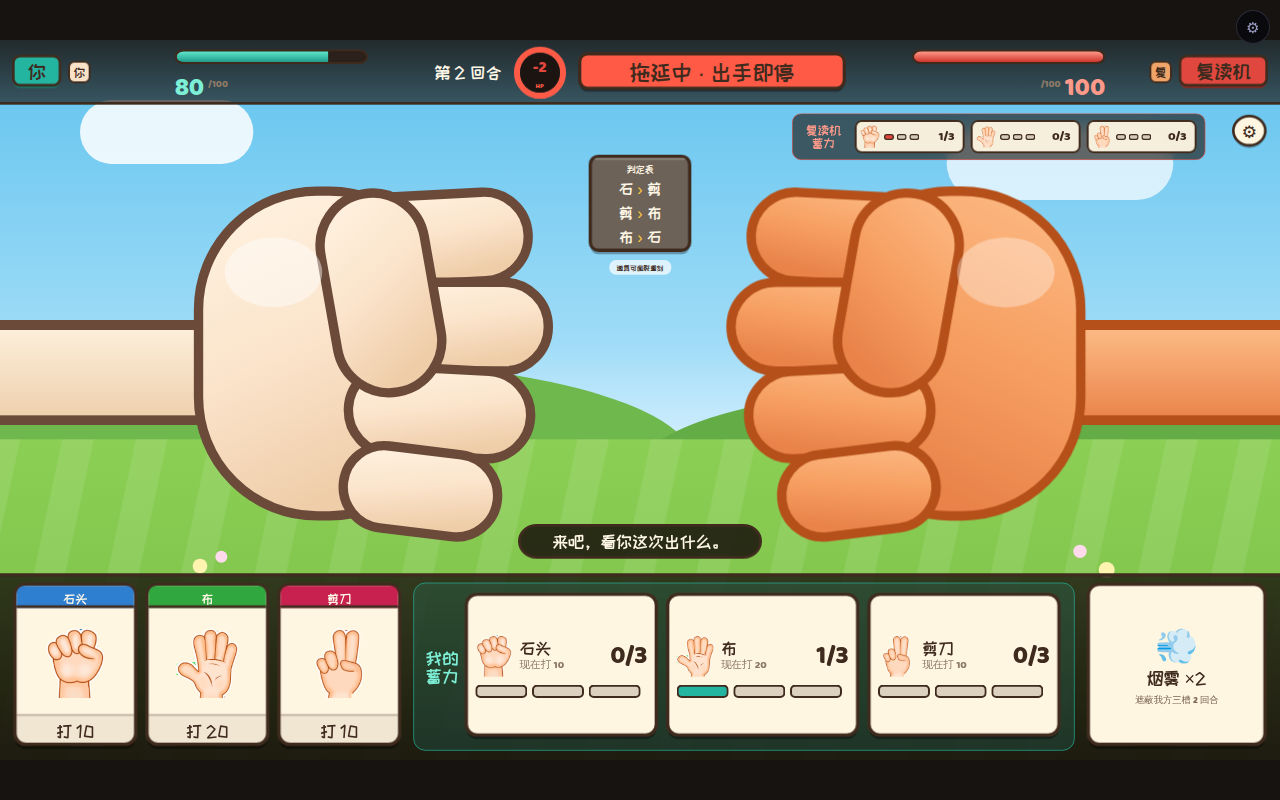
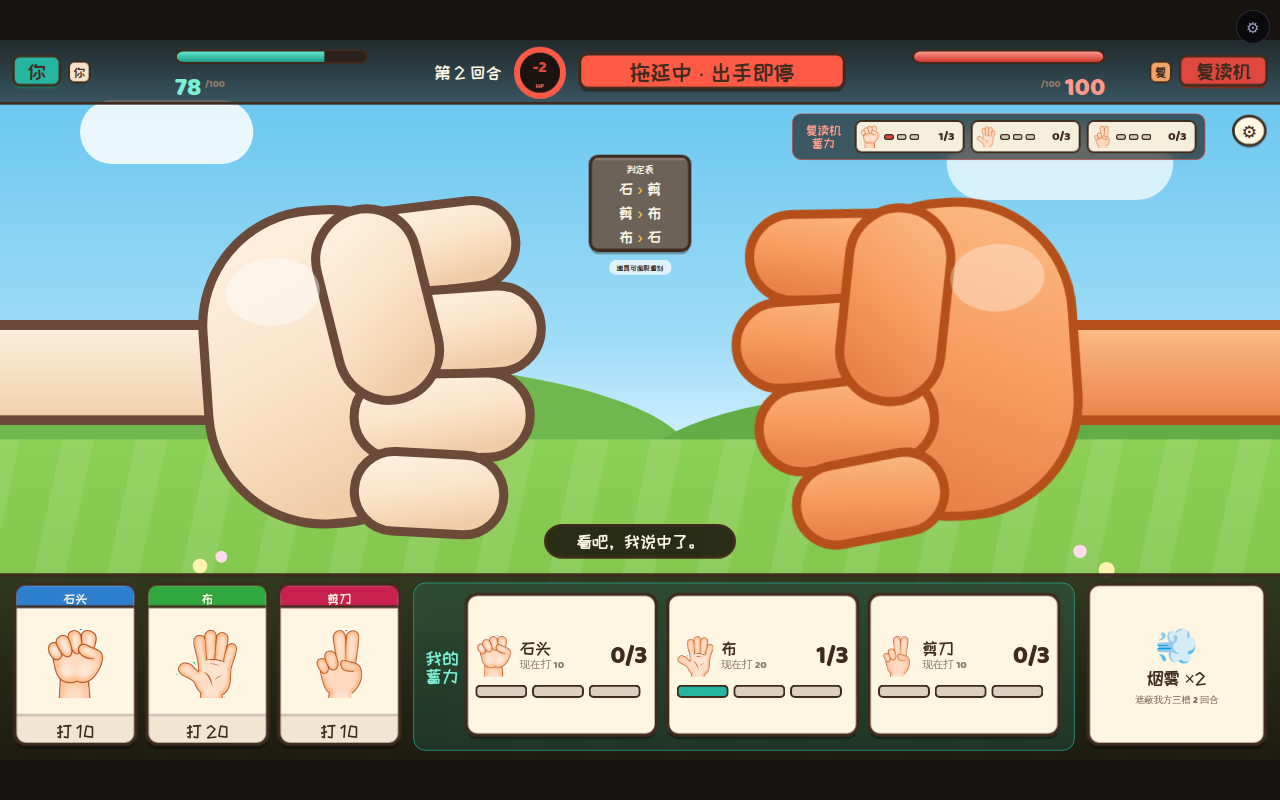
feat(game108): 罚血「欠债 → 真扣血」接线完成——按主程回驳单的 SelfRule+whenGlobal 写法
我 2026-08-08 开的 REQ-108-ENG-07 被主程回驳 wontfix（举证经实查证伪：`t2-self-rule` 的
`whenGlobal` 按全局 id 求值、`do` 施于自身，两头都有）。回驳成立，按等价写法接上，并撤销该单。

落地时撞出两条回驳单没遇到的，都写进注释与 GDD 免得再踩：

① **p1 那格 `SelfRule` 原本被【R-108-15】死亡判定占着**——证明测试用的是空实体，而 game108 的
   p1 已有 `Flag{p1.dead}` + `SelfRule{死亡判定}`；实测确认一实体一组件是**覆盖不是并存**。
   那一格给罚血（扣血只有自治规则做得到，全局路由分不清哪一侧），死亡判定挪到 `watch:p1`：
   `whenGlobal` 读全局 hp（装配序保证读到 p1）→ 置自身那面 `p1.dead`。
   p2 不需要罚血，照旧读自身 hp，无歧义。
   全局路由那条隐含依赖**有点名测试钉着**（「watch:p1 只盯 p1」：打死 p2 断言玩家不被判死）
   ——SIDES 倒序或插进第三个 hp 持有者时当场红，不然表现是「打死对手的同时自己也判负」且不报错。

② **flow 的 `set-flag` 是「找到已有 Flag 再改」**，没建 `flag:penaltyTick:p1` 实体时旗永不亮，
   表现是欠债一路涨、血条纹丝不动、零报错。被验收剧本新加的 `p1.hp` 断言当场逮住
   ——这也正是「台账与血量必须同时断言」的理由，写进了 acceptance/README。

节拍**不用 `once`**：once 的 armed 复位只看 `when` 不看 `whenGlobal`（回驳单已警告）。
改用 level 模式 + 节拍旗只亮一拍（`throwPenaltyHit` 进态点亮 → 下一拍 `throwPenalty` 熄灭），
「一秒一点」由 flow 的两态互跳保证，不依赖 armed 语义。
另加「血归零即收局」转移：不加的话血 clamp 在 0、玩家又没出手 ⇒ 永远出不去读秒态 = 死局。

验证（全部实跑）
- 单测 39 → 41 绿，新增「罚血真扣血」「一直不出手会被罚死」两条；
  **撤修验红**：撤掉节拍旗实体（带锚点断言确认真改到文件）→ 这两条当场转红，复原后 41 绿。
- 验收剧本 12/12 绿：⑧ 现在同断台账与血量（欠 4 点 → p1 96、p2 一点不掉）
- 真浏览器试玩 29/29 绿，罚血前 80 → 这一回合打完 78（肉眼可见掉了 2 点）
- 流程板 S3/S4/S5 机器门同时绿；scoped-gate 退出码 0

https://claude.ai/code/session_01CxgHiwPr3Q9y3548zpXfcV

diff --git a/games/game108/blueprint.ts b/games/game108/blueprint.ts
@@ -15,7 +15,7 @@ import { flowCapability } from '@zerocraft/engine/skills/tier3/index.js';
 import {
   HANDS, SIDES, HP_MAX, CHARGE_CAP, DMG_BASE, DMG_STEP, TIE_SELF_DAMAGE,
   PHASE_TICKS, PENALTY_PERIOD, PENALTY_HP, CHARGE_PER_ROUND,
-  ACT, HP_RES, chargeRes, chargeRelName, chargeEntity, chargeBudgetRes, penaltyDebtRes, lastThrowVar,
+  ACT, HP_RES, chargeRes, chargeRelName, chargeEntity, chargeBudgetRes, penaltyDebtRes, penaltyTickFlag, lastThrowVar,
   SMOKE_RES, SMOKE_TURNS, SMOKE_FLAG, SMOKE_USES, SMOKE_DURATION,
   type Hand, type Side, type OpponentId,
 } from './theme.js';
@@ -120,6 +120,7 @@ function duelFlow(): Record<string, unknown> {
     { kind: 'set-flag', targetId: PENALTY_GATE, value: false },
     { kind: 'set-flag', targetId: NEXT_GATE, value: false },
     { kind: 'set-flag', targetId: threwFlag('p1'), value: false },
+    { kind: 'set-flag', targetId: penaltyTickFlag('p1'), value: false },
     // 【R-108-10】v3：每回合发一份蓄力额度（双方同规则——AI 也只加一层）。
     ...SIDES.map((s) => ({ kind: 'modify-resource', targetId: chargeBudgetRes(s), op: 'set', value: CHARGE_PER_ROUND })),
     { kind: 'modify-resource', targetId: penaltyDebtRes('p1'), op: 'set', value: 0 },
@@ -149,18 +150,26 @@ function duelFlow(): Record<string, unknown> {
       // ── T2 尾巴：罚血读秒（屏上仍是「出招」这一拍）────────────────────────
       {
         id: 'throwPenalty',
-        onEnter: [{ kind: 'set-flag', targetId: PENALTY_GATE, value: true }],
+        onEnter: [
+          { kind: 'set-flag', targetId: PENALTY_GATE, value: true },
+          { kind: 'set-flag', targetId: penaltyTickFlag('p1'), value: false },   // 节拍旗只亮一拍
+        ],
         transitions: [
+          // 罚死了也要收局：不加这条，玩家血罚到 0 却还卡在读秒里等他出手（clamp 在 0，永远出不去）。
+          { when: hpDown('p1'), to: 'p2win' },
           { when: playerThrew, to: 'clash' },
           { after: PENALTY_WAIT, to: 'throwPenaltyHit' },
         ],
       },
       {
         id: 'throwPenaltyHit',
-        // 记一笔欠债（**全局唯一 id**，故 flow 的 modify-resource 打得中）。
-        // 欠债 → 真掉血这一步**尚缺引擎通路**（见 requests.md REQ-108-ENG-07 的 A/B）：
-        // 全局 Effect 写不到"指定一侧"的 hp（两侧同 id），故本轮先把账记准、演出照做。
-        onEnter: [{ kind: 'modify-resource', targetId: penaltyDebtRes('p1'), op: 'add', value: PENALTY_HP }],
+        onEnter: [
+          // 记一笔欠债（**全局唯一 id**，故 flow 的 modify-resource 打得中）——屏上「已欠 -N」读它。
+          { kind: 'modify-resource', targetId: penaltyDebtRes('p1'), op: 'add', value: PENALTY_HP },
+          // **真扣血的节拍**：点亮全局节拍旗，p1 自己那条 SelfRule 用 whenGlobal 读它、扣自身 hp。
+          // 旗只亮这一拍（下一拍回 throwPenalty 就熄），故 level 模式也恰好一秒一点。
+          { kind: 'set-flag', targetId: penaltyTickFlag('p1'), value: true },
+        ],
         transitions: [
           { when: playerThrew, to: 'clash' },
           { when: { kind: 'always' }, to: 'throwPenalty' },
@@ -401,6 +410,10 @@ export function buildBlueprint(opponent: OpponentId = 'parrot'): WorldBlueprint 
     'fx:threw:p1': { Effect: { onSignal: PLAYER_THREW, kind: 'set-flag', targetId: threwFlag('p1'), value: true } } as EntityBlueprint,
     'fx:next': { Effect: { onSignal: ACT.next, kind: 'set-flag', targetId: NEXT_GATE, value: true } } as EntityBlueprint,
     'debt:p1': { Resource: { id: penaltyDebtRes('p1'), current: 0, min: 0, max: 999 } } as EntityBlueprint,
+    // 【R-108-04】罚血节拍旗（**必须真有这个实体**）：flow 的 `set-flag` 是「按 id 找到已有的 Flag 再改」，
+    // 世界里没有同 id 的 Flag 就**静默什么都不做**——旗永不亮 ⇒ 屏上欠债一路涨、血条纹丝不动。
+    // 接线第一版正是漏了它，验收剧本的 `p1.hp eq 96` 当场逮住（这就是那条断言存在的理由）。
+    'flag:penaltyTick:p1': { Flag: { id: penaltyTickFlag('p1'), active: false } } as EntityBlueprint,
     ...opponentRules(opponent),
     ...smokeWiring(),
     ...chargeEffects(),
@@ -408,17 +421,63 @@ export function buildBlueprint(opponent: OpponentId = 'parrot'): WorldBlueprint 
   };
 
   // 双方：血量各挂一份**同 id**（matrix-duel 的 hpResource 按侧 local 寻址）【R-108-15】。
+  //
+  // ⚠ **一实体一组件，`SelfRule` 只有一格**（实测：同 type 二次 addComponent 是覆盖不是并存）。
+  // v3 要在**同一个 p1 身上**做两件都得碰自身的事：
+  //   ① 【R-108-15】血归零 → 置本侧 dead 旗（**只读判断** + 写自身 Flag）
+  //   ② 【R-108-04】罚血节拍 → 扣本侧 hp（**写自身 Resource**）
+  // 那一格给 ②：**扣血只有自治规则做得到**——全局 Effect / CraftRecipe / flow 的 modify-resource
+  // 一律是全局 id 路由，两侧同 id 分不清哪一侧（主程 2026-08-07 回驳单的等价写法即此）。
+  // ① 则挪到 `watch:p1`，靠 `whenGlobal` 读全局条件（见该实体注释）。
+  // p2 不需要罚血（AI 从不犹豫），它那一格照旧留给死亡判定，读的是**自身** hp，无歧义。
   for (const side of SIDES) {
+    const isPlayer = side === 'p1';
     entities[side] = {
       Resource: { id: HP_RES, current: HP_MAX, min: 0, max: HP_MAX },
-      Flag: { id: deadFlag(side), active: false },
-      // 读自身 hp（不是全局 id）→ 置自身那面唯一 flag：这是「按侧判定」在现有能力里的正解。
-      SelfRule: {
-        when: { kind: 'resource', id: HP_RES, cmp: 'lte', value: 0 },
-        do: [{ kind: 'set-flag', targetId: deadFlag(side), value: true }],
-        once: true,
-      },
+      ...(isPlayer
+        ? {
+          // 【R-108-04】罚血落到实处：`whenGlobal` 读**全局**节拍旗 → `do` 施于**自身** = 本侧那份 hp。
+          // `when` 读自身 hp「还活着才罚」——血归零后不再往下扣（钳位之外的第二道）。
+          // **不带 `once`**：once 的 armed 复位只看 `when` 不看 `whenGlobal`（后者为假是整条 continue，
+          // armed 不动），节拍放 whenGlobal 会「罚第一次就再也不复位」——主程实测撞过，写进了回驳单。
+          // 改用 level 模式 + 节拍旗只亮一拍，「一秒一点」由 flow 的两态互跳保证。
+          SelfRule: {
+            whenGlobal: { kind: 'flag', id: penaltyTickFlag(side) },
+            when: { kind: 'resource', id: HP_RES, cmp: 'gt', value: 0 },
+            do: [{ kind: 'modify-resource', value: -PENALTY_HP }],
+          },
+        }
+        : {
+          Flag: { id: deadFlag(side), active: false },
+          // 读自身 hp（不是全局 id）→ 置自身那面唯一 flag：按侧判定在现有能力里的正解。
+          SelfRule: {
+            when: { kind: 'resource', id: HP_RES, cmp: 'lte', value: 0 },
+            do: [{ kind: 'set-flag', targetId: deadFlag(side), value: true }],
+            once: true,
+          },
+        }),
     } as EntityBlueprint;
+  }
+  /**
+   * 【R-108-15】玩家侧的死亡看守（**另居一实体**·因为 p1 那格 SelfRule 让给了罚血）。
+   *
+   * `whenGlobal` 走**全局 id 路由**——两侧 hp 同 id，取的是「世界里第一个 id='hp' 的 Resource」。
+   * 装配序 `SIDES = ['p1','p2']` ⇒ 那一个恒是 **p1**，正好是本看守要盯的那侧。
+   * **这条依赖是显式的、且有点名测试钉着**（`game108.test.ts`「看守只盯 p1」：把 p2 打到 0
+   * 断言 `p1.dead` 不动、把 p1 打到 0 断言它置位）——不是「碰巧能跑」的静默依赖。
+   * 同样的写法对 p2 **不成立**（它也只会读到 p1），所以 p2 走自身那条路，见上。
+   */
+  entities['watch:p1'] = {
+    Flag: { id: deadFlag('p1'), active: false },
+    SelfRule: {
+      whenGlobal: { kind: 'resource', id: HP_RES, cmp: 'lte', value: 0 },
+      when: { kind: 'always' },
+      do: [{ kind: 'set-flag', targetId: deadFlag('p1'), value: true }],
+      once: true,
+    },
+  } as EntityBlueprint;
+
+  for (const side of SIDES) {
     entities[`var:${side}`] = { StringVar: { id: lastThrowVar(side), value: '' } } as EntityBlueprint;
     // 【R-108-10】v3 蓄力额度：起手就发一份，**不等 T1 的 onEnter**——
     // flow 首帧才跑 `charge` 的 onEnter，起手值留 0 会让第一回合的第一次点击加 0（首局哑一拍）。

diff --git a/games/game108/theme.ts b/games/game108/theme.ts
@@ -105,6 +105,18 @@ export const chargeBudgetRes = (side: Side): string => `${side}.budget`;
 /** 【R-108-04】本回合已欠的罚血点数（**per-round**·T1 开场清零）。屏上「你已经欠了多少」读它。 */
 export const penaltyDebtRes = (side: Side): string => `${side}.debt`;
 
+/**
+ * 【R-108-04】罚血的**节拍旗**（全局 id·flow 每秒点亮一拍）。
+ * 该侧的 `SelfRule` 用 `whenGlobal` 读它 → `do.modify-resource` 扣**自身**那份 hp，
+ * 这是「全局条件 → 按侧扣血」在现有能力里的正解（主程 2026-08-07 回驳单的等价写法）。
+ *
+ * ⚠ **不带 `once`**：`once` 的 armed 复位只看 `when`（自身）不看 `whenGlobal`
+ * （`whenGlobal` 为假是 continue 整条跳过·armed 不动），节拍放 `whenGlobal` 里会「罚第一次就再也不复位」。
+ * 改用 level 模式 + **旗只亮一拍**（`throwPenaltyHit` 进态点亮 → 下一拍 `throwPenalty` 熄灭），
+ * 于是「一秒一点」由 flow 的两态互跳保证，不依赖 armed 语义。
+ */
+export const penaltyTickFlag = (side: Side): string => `${side}.penaltyTick`;
+
 // ── UI ────────────────────────────────────────────────────────────────
 /**
  * 对局屏主题 —— **按设计定稿的令牌表改配**（`design-tokens.ts` 是逐字抄稿的那份）。

diff --git a/docs/workflow/requests.md b/docs/workflow/requests.md
@@ -76,47 +76,12 @@
 - **边界**（复查门核对用）：`scripts/click-probe.mjs`（新）+ `scripts/game-pipeline.mjs` 的 S3 门读码一处
   + 其单测。**不碰**别的阶段门、不碰渲染探针、不改任何游戏。
 
-### REQ-108-ENG-07 · 全局条件成立时**扣指定一侧**的血——现有能力表达不了 · [2026-08-08] · game108 v3【R-108-04】带出 · status: **open · 等 owner 判 A/B** · 优先级: P1（卡 game108 S4 收口） · 类型: 引擎缺口
-
-**要表达的一句话**：「T2 免费段走完还没出手 → **每 1 秒扣 p1 一点血**，直到他出手」（gdd【R-108-04】·owner 2026-08-07 定值）。
-形状 = **全局条件（相位门 + 已出手旗 + 周期钟）→ 按侧局部写（p1 自己那份 `hp`）**。
-
-#### ① 先查（实查·留原文·不凭印象）
-
-| 查了什么 | 结论 | 出处 |
-|---|---|---|
-| `Effect{kind:'modify-resource'}` | 目标是 `lookup.resource(targetId)` = **全局 id 首个**；`targetEntity` **只被** set-sensor / set-visible / destroy / reset-timer 四个 kind 消费 | `effect-apply.ts:153-197`，`targetsOf` 调用点 207/219/245/287 |
-| `buildConditionLookup` | 「同 id 多份时**取第一份**（假定全局唯一）」 | `condition.ts:22` |
-| `CraftRecipe` 的 costs/gains | 同样是 `lookup.resource` 全局路由 | `craft-recipe.ts:85/95/102` |
-| `flow` 的 `onEnter/do` 动作 | `applyAction` 也是 `lookup.resource` | `tier3/flow.ts:37-45` |
-| `SelfRule` | **能**写自身 Resource，且 `whenGlobal` 正好是「全局阶段门 + 自治写」（REQ-F-035）——**形状完全对**；但 game108 的 `p1` 实体那一格 `SelfRule` 已被【R-108-15】的死亡判定占死（读自身 hp → 置自身 `p1.dead`），引擎**一实体一组件**，装不下第二条 | `logic.ts:229-239`、`blueprint.ts` 侧实体那段 |
-| 死亡判定能不能挪走腾出槽 | **不能**：它同样要「读 p1 自己的 hp」，而 hp 只有 self-local 一条路能认侧 | 同上 |
-| `OverTime`/`TimedEffect` | **周期改自身资源**正是要的，但 `TimedEffect` **没有任何门控字段**，且数据侧无法在运行期挂载/摘除（`addTimedEffect` 是代码 API，由 hitbox 调） | `combat.ts:65-73`、`over-time.ts` |
-| `Mortal` | 到阈值**销毁自身**——销毁 p1 会连带打掉血条/重开，不可用 | `combat.ts:169-174` |
-| 能不能靠「p1 恰好是第一个 Resource」 | 能跑，但**是个静默地雷**：`SIDES` 一换序就罚错人、零报错。本能力自己在三处禁止这种写法 | `matrix-duel.ts:60/86/228-231/322-325`（落盘门**直接拒收** effects/scaleByResource 碰 hpResource，判词原文「两侧同 id 无法全局寻址」） |
-
-**重组不成立的原因一句话**：能读全局的写不到指定侧（effect/craft/flow 全是 id 路由），能写指定侧的读不到全局（self-rule 的槽被占死）。两半都在，接不上。
-
-#### ② 两条路（Lead 给推荐·**不下裁决**）
-
-**A · 补引擎缺口**：把**已有字段** `Effect.targetEntity` 补齐到 `modify-resource`——在场时写该实体自己那份 `Resource`（id 仍须匹配 `targetId`），缺省保持现在的全局路由。
-- 代价：动 `effect-apply`（Commit 相位·跨游戏共享面 ⇒ 🔴 主程域），约 3 行 + 契约注释 + 点名测试。**纯增量、向后兼容**（不填 `targetEntity` 的旧数据一字不变）。
-- 影响面：全库。**通用性高**——凡「多实体各挂同 id 资源」（双方 hp / 多席位分数 / 多队血条）都吃这个亏，`matrix-duel` 已经为它打了三处补丁（用落盘门**禁止**作者去碰，而不是让作者能碰）。
-- 选错要付什么：给 Effect 开了一条"按实体写资源"的路，将来有人拿它绕开 self-rule 的自治语义。可用「id 必须匹配」这条约束压住（不是任意实体任意资源）。
-- 不碰定序/相位/hash 口径：只改**寻址**，写入点、时机、钳位一字不动。
-
-**B · 游戏独有逻辑**：game108 自写一个 system 每 tick 判「相位 + 已出手 + 计时」→ 扣 p1 的 hp。
-- 代价：违反数据驱动宣言（游戏层不许写 system）；且这条逻辑（相位门 + 按侧扣血）明显是通用形状，写在游戏层等于把缺口埋起来，下一个游戏再挖一遍。
-- 好处：不动引擎，零全库风险。
-
-**Lead 推荐 A。** 理由：这不是 game108 一家的需求，是引擎「实体寻址轴」上缺的一格——`SelfRule.whenGlobal` 已经把「全局门 + 自治写」补齐了，A 补的是它的镜像「全局规则 + 指定实体写」。
-
-#### ③ 本轮的落地状态（**等判决期间没有停工**）
-
-罚血的**账已经记准、演出已经做全**：`throwPenalty ↔ throwPenaltyHit` 两态互跳当周期钟（每 1 秒一记），
-写进全局唯一 id 的 `p1.debt`；屏上倒计时环翻成「已欠 -N」、相位牌换「拖延中」、每秒闪一次红纱。
-**唯一没接的是最后一步「`p1.debt` → 真扣 hp」**——判 A 就是加一条 `Effect{targetEntity:'p1'}`；
-判 B 则改成游戏层 system。两条路都不需要改已经落地的这些。
+<!-- REQ-108-ENG-07（我 2026-08-08 开的「全局条件→扣指定一侧血」引擎缺口单）**已撤销·不占槽**：
+     ① 编号撞车——该号早被「结算门下的 intent 生命周期」占用（我开单时只 grep 了本文件，没扫 gdd.md）；
+     ② 举证经主程实查**证伪**并回驳 wontfix——`t2-self-rule` 的 `whenGlobal`（全局 id 求值）+ `do`（施于自身）
+        两头都有，等价数据写法与证明测试见 `src/skills/tier2/self-rule.test.ts`「罚血形态·回驳证明」3 例。
+     2026-08-08 已按该写法接线完成（game108 罚血真扣血·验收剧本 12/12 绿）。全文查 git 历史与
+     `docs/design/game108/requests.md` 的回驳单。**教训：开单编号前扫全套 docs/design/<game>/*.md，不只扫 requests。** -->
 
 ### 📦 3D 渲染线需求 → 已移至 `docs/workflow/requests-3d.md`（owner 2026-06-28 立独立池）
 

diff --git a/docs/design/game108/gdd.md b/docs/design/game108/gdd.md
@@ -344,5 +344,5 @@ T4 结算 ── 落 ── 槽碎裂泄气 · 血条扣
 | **T2 最优解可能收敛成固定混合策略** | 单机由「AI 不打均衡」化解；**PvP 不成立**——再次说明单机是主菜 |
 | 三秒时区手感 | 真机验；太紧张则改 4 秒，但不许到 8 秒 |
 | 立绘表演（tell）的表现力 | 静态立绘 + 表情切换够不够读，S4 试玩验；不够则加 2-3 帧关键动作 |
-| **【R-108-04】罚血「欠债 → 真扣血」这一步** | ✅ **不缺引擎能力·主程 2026-08-07 回驳**（原写「卡在 `REQ-108-ENG-07` 等判 A/B」——**该编号已被另一单占用，且举证经实查证伪**）：`t2-self-rule` 两头都有——`whenGlobal` 按**全局** id 求值（REQ-F-035），`do` 施于**自身**（一实体一组件 ⇒ 打到的就是该侧那份 hp）。等价数据写法 + 可执行证明见 `self-rule.test.ts`「罚血形态·回驳证明」3 例。**照着写就能接上，无需引擎改动。** |
+| **【R-108-04】罚血「欠债 → 真扣血」** | ✅ **2026-08-08 已接线并验收**（主程回驳单的等价写法：p1 的 `SelfRule{whenGlobal: 全局节拍旗, when: 自身 hp>0, do:[modify-resource -1]}`）。**落地时多撞出两条，写在这儿免得再踩**：① p1 那格 `SelfRule` 原被【R-108-15】死亡判定占着（一实体一组件·实测覆盖不并存）⇒ **死亡判定挪到 `watch:p1`**（`whenGlobal` 读全局 hp·装配序保证读到 p1·有点名测试钉着），p2 不需罚血故照旧读自身；② flow 的 `set-flag` 是「找到已有 Flag 再改」，**没建 `flag:penaltyTick:p1` 实体时旗永不亮**——表现是欠债一路涨、血条纹丝不动且不报错，被验收剧本的 `p1.hp` 断言逮住。验收：剧本 ⑧ 台账与血量同断言 + 单测「罚血真扣血」「一直不出手会被罚死」（撤修验红过）。 |
 | ~~三秒时区手感~~ | **v3 重定**：T1 2.5s / T2 免费 5s / T3 1.5s / T4 玩家闸门（§5b 七个数 owner 已定完）。真机手感待 S5 试玩复验 |

diff --git a/docs/design/game108/acceptance/README.md b/docs/design/game108/acceptance/README.md
@@ -51,6 +51,8 @@ v3 重写的账：
   【R-108-02】v3 作废（v2「不罚玩家不卡节奏」→ v3「罚，而且卡到你出手」）。
 - 新增 ⑪ `11-t1-timeout-no-charge`（【R-108-02】v3）· ⑫ `12-t4-player-gate`（【R-108-05】）。
 
-`gdd.md §15` 还有 5 条（改表 / 增维 / 逆转 / 罚血真扣血 / 确定性）尚未转成文件：
-前三条依赖凿改层（未开工）；**「罚血真扣血」卡在引擎缺口 `REQ-108-ENG-07`**（等 owner 判 A/B）——
-本目录 ⑧ 已经把"欠了几点"钉死，欠债变成掉血那一步接上后再补一条血量断言即可。
+`gdd.md §15` 还有 4 条（改表 / 增维 / 逆转 / 确定性）尚未转成文件——前三条依赖凿改层（未开工）。
+
+**「罚血真扣血」已接上**（2026-08-08）：⑧ 现在同时钉台账与血量（`p1.debt` 4 → `p1.hp` 96、
+对手 `p2.hp` 一点不掉）。**两个都要断言**——只钉台账的话，「屏上写着欠 4 点、血条纹丝不动」
+这种最难查的假象照样全绿（接线第一版漏建节拍旗实体，正是被这条血量断言逮住的）。

diff --git a/docs/design/game108/ui-v3-change-brief.md b/docs/design/game108/ui-v3-change-brief.md
@@ -65,8 +65,8 @@
 - **必须与"被对手打中"区分得开**——罚血不是战果，不该触发胜负横幅。
 - **现状**：环整圈转红、圈心从「N.N 秒」翻成「**-N**」（欠了几点）、圈下一行写「出手即停」，
   相位牌从「出招」换成「**拖延中**」；每秒一闪 180ms 的淡红纱（浓度 .16，只有挨打那一下的三分之一）。
-  胜负横幅不触发。⚠ **注意**：屏上这一套已经准，但「欠债 → 真扣血」还卡在引擎缺口
-  （`requests.md REQ-108-ENG-07`·等 owner 判 A/B），所以现在血条不会跟着掉。
+  胜负横幅不触发。**血条会跟着一秒一格地掉**（2026-08-08 接线完成——早先那句「卡在引擎缺口」作废：
+  举证经实查证伪，`t2-self-rule` 的 `whenGlobal` + `do` 本来就够用）。拖到血光会直接判负。
 
 ### ④ 结算演出加重 + T4 按钮
 
